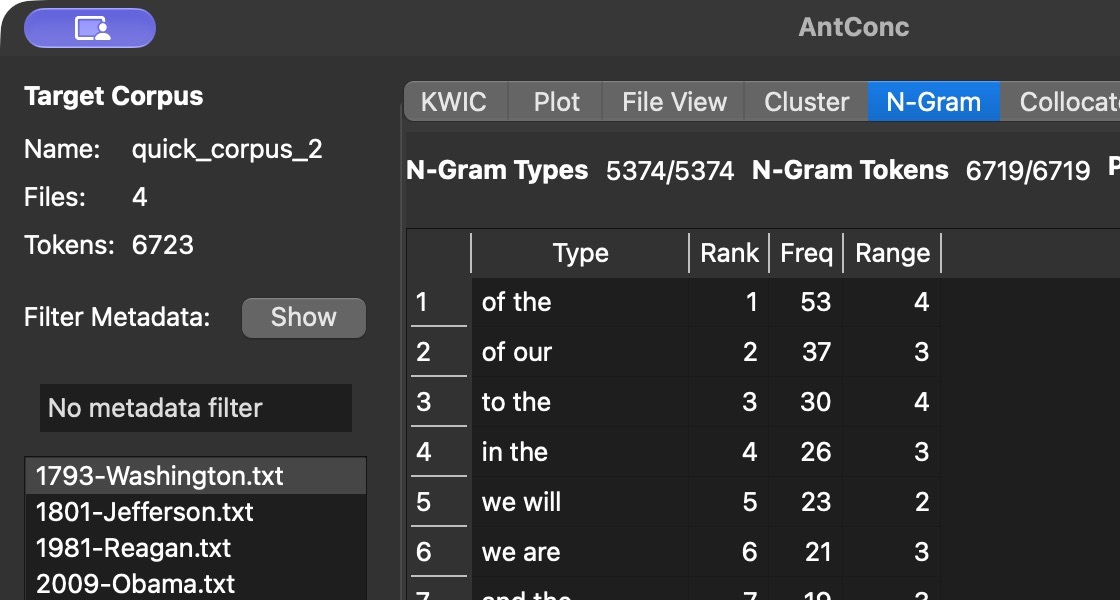
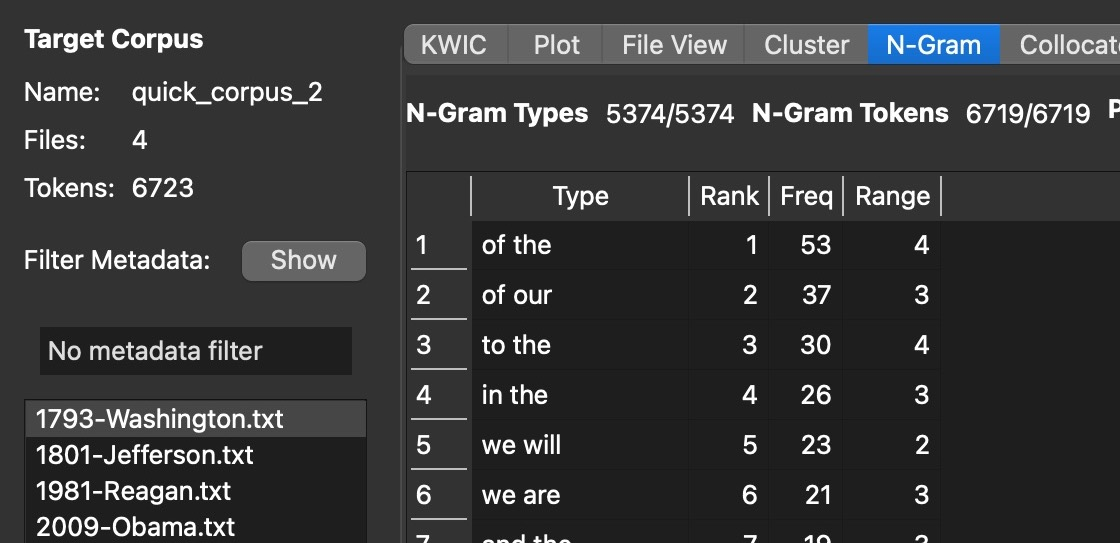
Crop screen-sharing badge from AntConc screenshots

diff --git a/index.html b/index.html
@@ -129,19 +129,19 @@
         <p>I ran AntConc on the same four speech files used in Voyant, including Washington’s 1793 address. I compared consecutive two- and three-word sequences with case matching off. In the tables, <em>frequency</em> is the total number of occurrences and <em>range</em> is the number of speeches containing the phrase.</p>
 
         <figure class="visual-card antconc-figure">
-          <a href="antconc-bigrams.jpg"><img src="antconc-bigrams.jpg" width="1120" height="600" alt="AntConc bigram rankings. Of the leads with 53 hits across four speeches. We will ranks fifth with 23 hits across two speeches." loading="lazy"></a>
+          <a href="antconc-bigrams.jpg"><img src="antconc-bigrams.jpg" width="1120" height="543" alt="AntConc bigram rankings. Of the leads with 53 hits across four speeches. We will ranks fifth with 23 hits across two speeches." loading="lazy"></a>
           <figcaption><strong>Figure 3. Two-word phrases in AntConc.</strong> <em>Of the</em> leads with 53 occurrences across all four speeches. <em>We will</em> ranks fifth with 23 occurrences across two speeches. The shorter sequence identifies a shared pattern of making promises, and the third word helps narrow the comparison.</figcaption>
         </figure>
 
         <figure class="visual-card antconc-figure">
-          <a href="antconc-trigrams.jpg"><img src="antconc-trigrams.jpg" width="1120" height="1400" alt="AntConc trigram rankings showing we will not four times across two files, and of the public and the federal government three times each across one file apiece." loading="lazy"></a>
+          <a href="antconc-trigrams.jpg"><img src="antconc-trigrams.jpg" width="1120" height="1343" alt="AntConc trigram rankings showing we will not four times across two files, and of the public and the federal government three times each across one file apiece." loading="lazy"></a>
           <figcaption><strong>Figure 4. Three-word phrases in AntConc.</strong> <em>We will not</em> appears four times across two speeches. <em>Of the public</em> and <em>the federal government</em> each appear three times, each in a single speech. Reading the source files places the first phrase in Jefferson and the second in Reagan.</figcaption>
         </figure>
 
         <p>Jefferson uses <em>of the public</em> in passages about public order, public faith, and public reason. The phrase links civic order with obligations such as paying public debts and holding abuses up to public scrutiny. Reagan repeats <em>the federal government</em> three times in one paragraph to emphasize the division of power between the federal government and the states. Voyant made <em>government</em> stand out in both speeches, and these passages show how differently the speakers frame it.</p>
 
         <figure class="visual-card antconc-figure">
-          <a href="antconc-kwic.jpg"><img src="antconc-kwic.jpg" width="1710" height="545" alt="Four AntConc concordance lines for we will not. The following verbs are apologize and give in Obama, and surrender and use in Reagan." loading="lazy"></a>
+          <a href="antconc-kwic.jpg"><img src="antconc-kwic.jpg" width="1710" height="488" alt="Four AntConc concordance lines for we will not. The following verbs are apologize and give in Obama, and surrender and use in Reagan." loading="lazy"></a>
           <figcaption><strong>Figure 5. <em>We will not</em> in context.</strong> AntConc returns two hits in Reagan (1981) and two in Obama (2009), with zero hits in Jefferson or Washington. The different verbs after the phrase point to different commitments.</figcaption>
         </figure>
 
